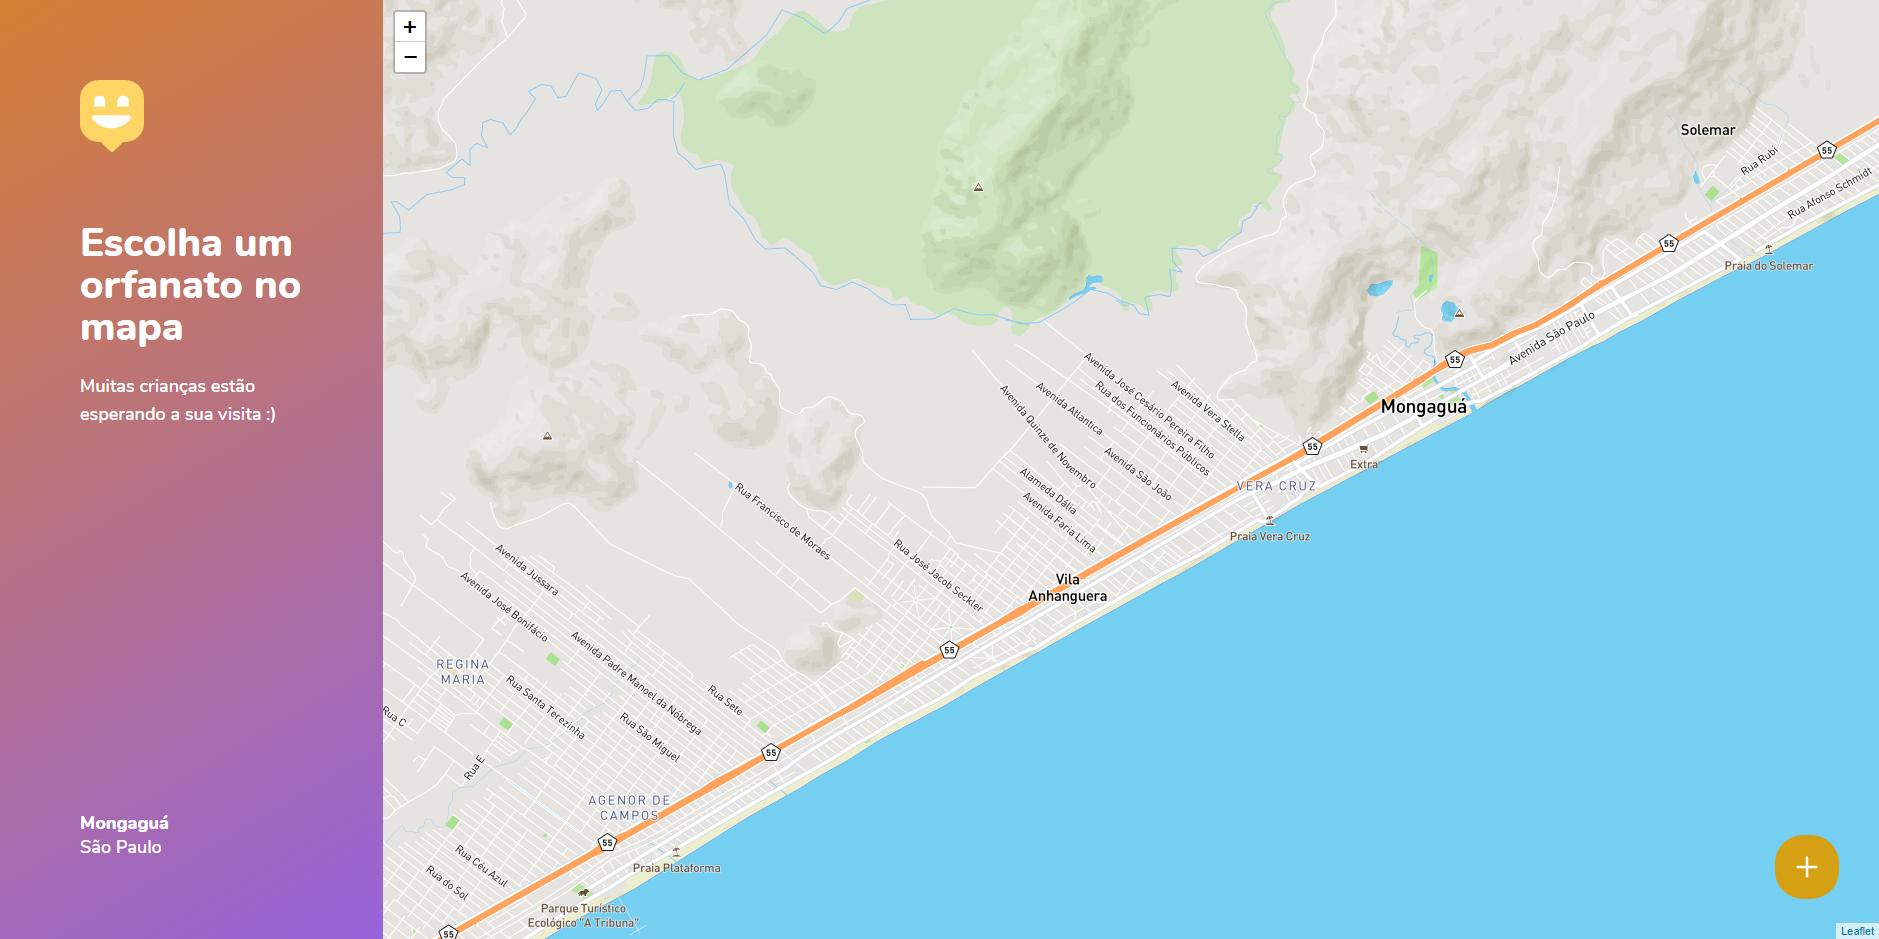
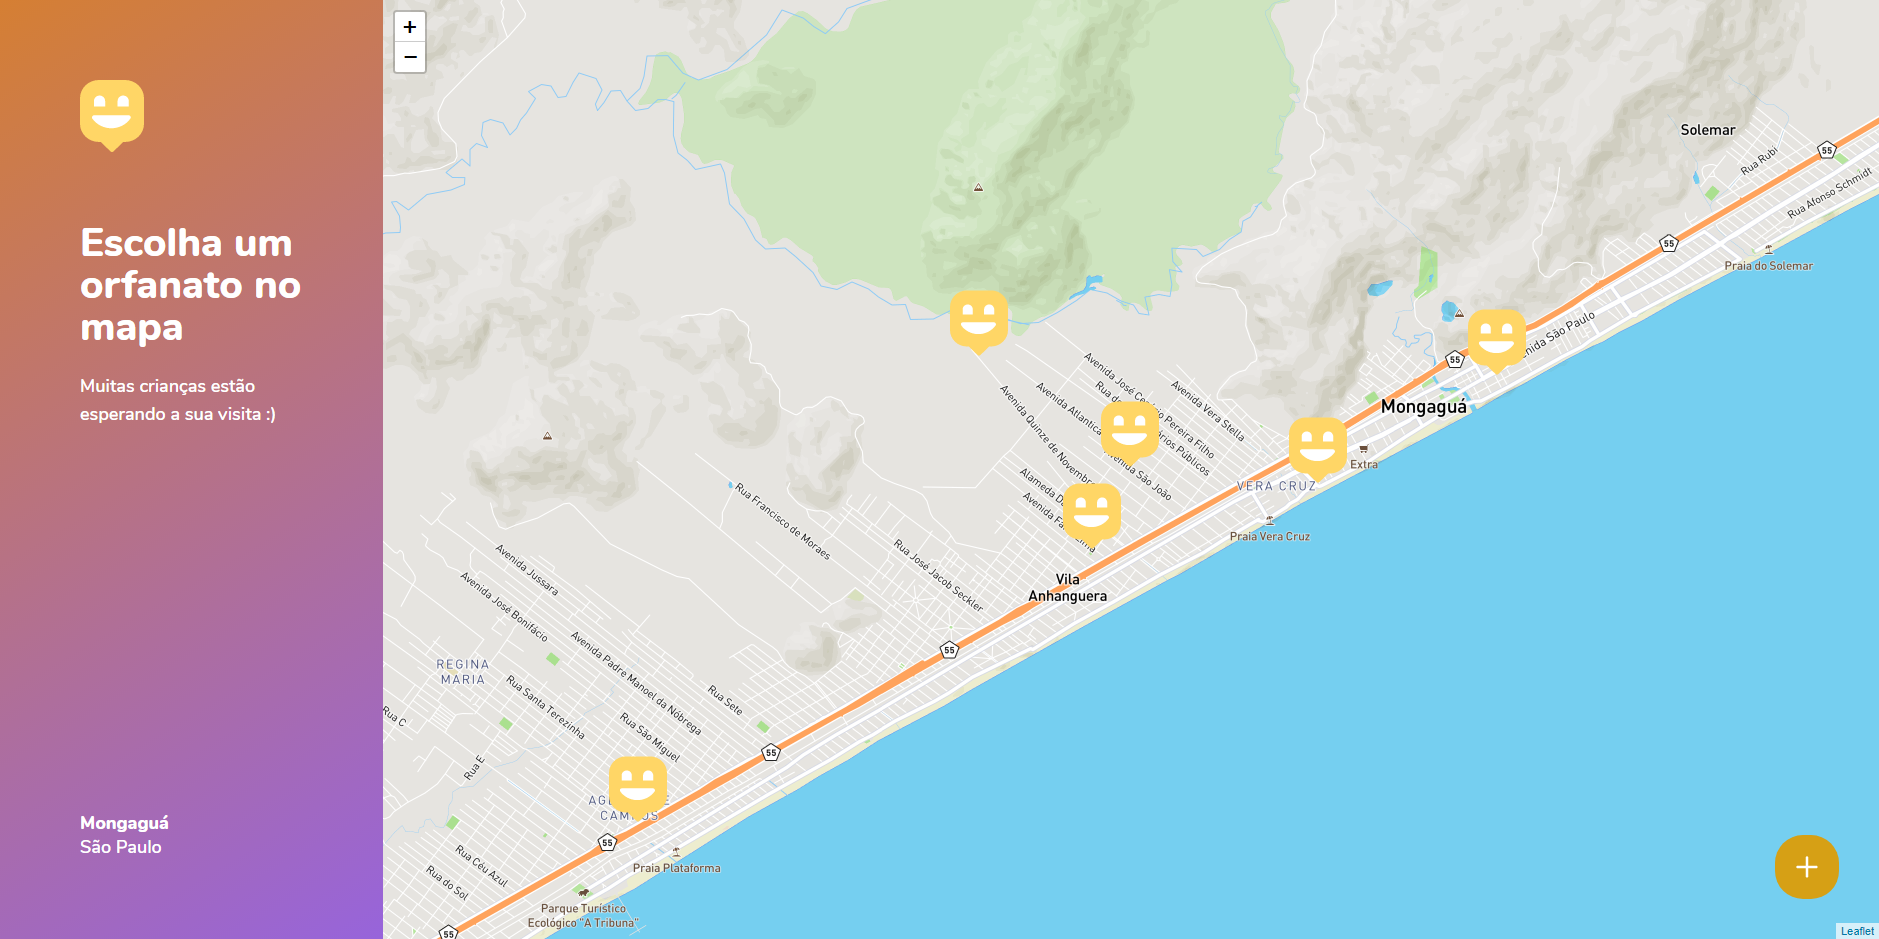
Update do README e telas

diff --git a/README.md b/README.md
@@ -1,6 +1,7 @@
 # HAPPY
 
 Esta aplicação está sendo desenvolvida junto da **NVL#3-_Next Level Week 3° Edição_**, promovido pela [Rocketseat](https://rocketseat.com.br). Ela está sendo feita com _React_ junto de _Typescript_, e estou dando o meu máximo para aprender muito mais com ela.
+E conta com um aplicativo também, sendo desenvolvido em _React Native_, o que é uma _stack_ nova para mim mas estou gostando bastante de usar e aprender mais e mais sobre ela.
 
 ## A aplicação em si!
 
@@ -10,5 +11,14 @@ Bem se ela ta com algumas coisinhas diferentes, pensei em diferenciar nisso e us
 > Essa é a página de início dela. Com algumas mexidas aqui e ali, mudei as cores tanto do fundo quanto do SVG das crianças.
 > - _Adorei mudar esses SVGs_
 
-> ![View orphanates page](/info/view_orphanates_page.png)
-> E a tela de visualização de orfanatos, por enquanto tem pouca coisa mas ao decorrer dos dias vai se preenchedo...
+> ![Página de mapa de orphanatos](/info/view_orphanates_page.png)
+> ![Página de mapa de orphanatos seleção](/info/view_orphanates_selected_page.png)
+> E a tela de visualização de orfanatos, esse 'orfanatos' estão ai mais para ilustração não tem tantos assim na cidada haha.
+
+> ![Página de detalhes do orphanatos](/info/view_orphanates_p1_page.png)
+> ![Página de detalhes do orphanatos](/info/view_orphanates_p2_page.png)
+> Aqui pode-se ver mais do orfanato, informações cadastradas de determinado organato.
+
+
+> ![Página de criação de orfanato](/info/view_create_orphanates_page.png)
+> E nesta página é onde cadastra um novo orfanato, colocando algumas informações.
